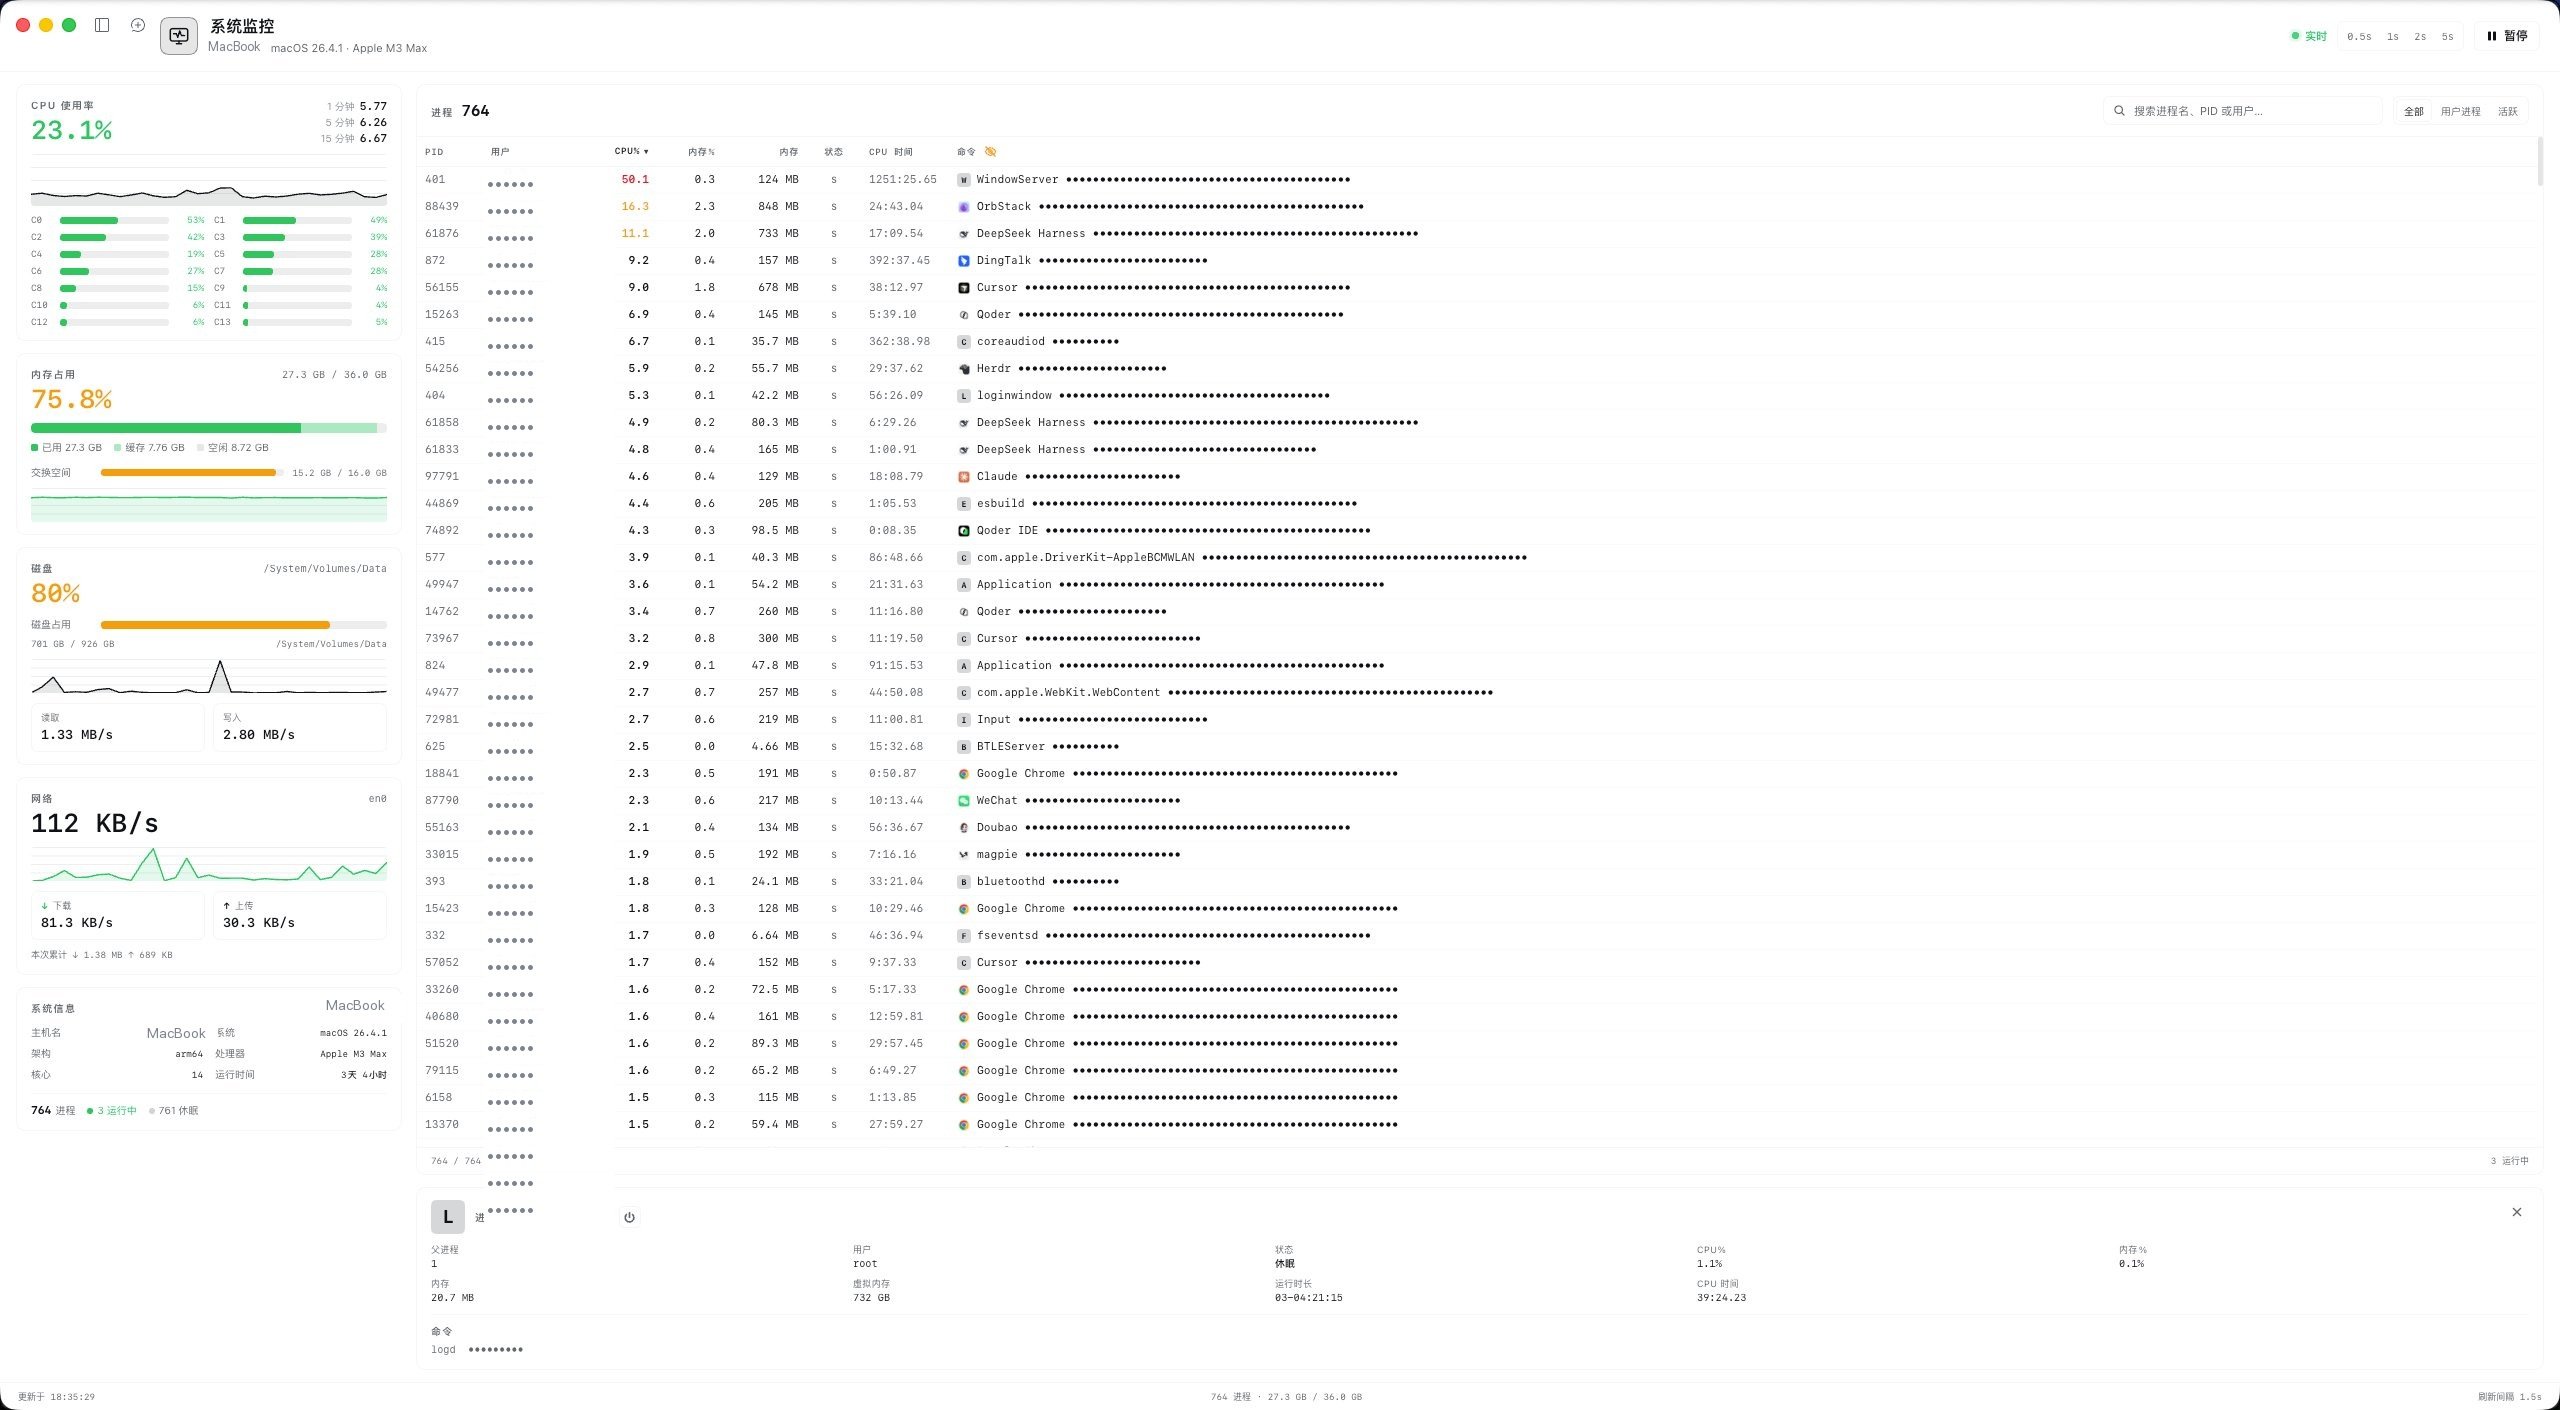
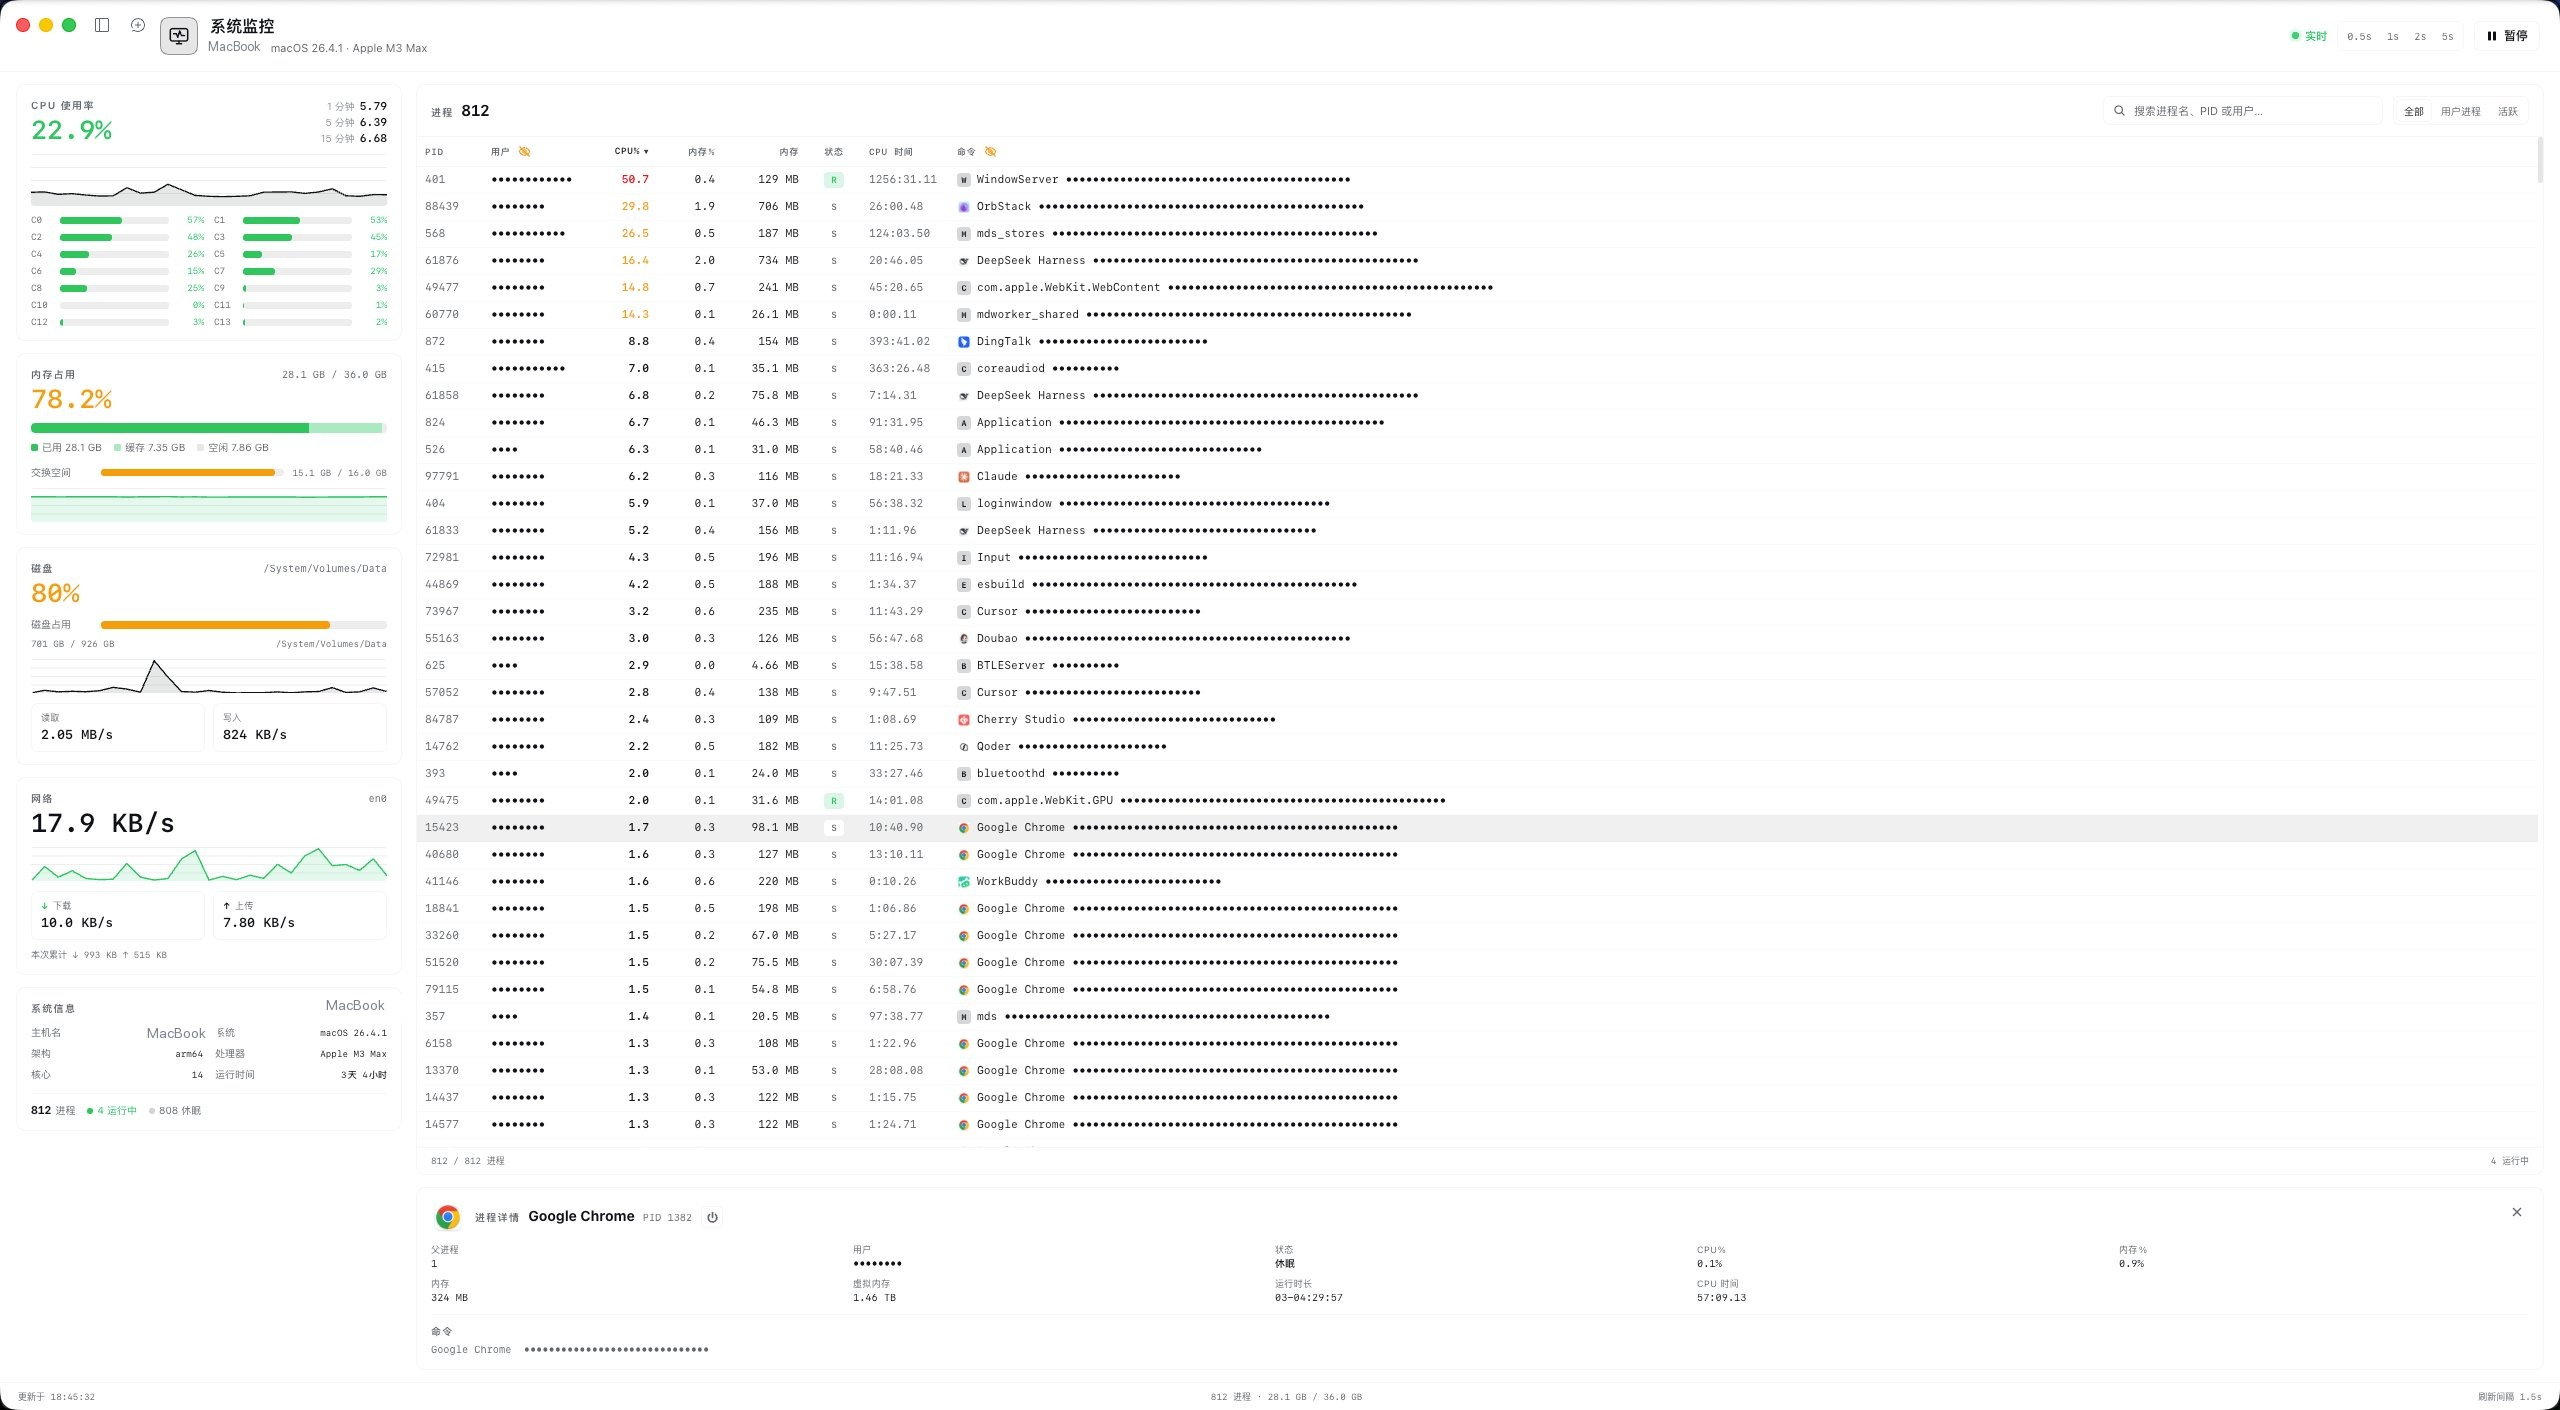
docs: replace README preview image

diff --git a/README.md b/README.md
@@ -6,8 +6,6 @@ DeepSeek Harness 的「系统监控」插件：一个 btop 风格的本机资源
 
 ![系统监控预览](https://raw.githubusercontent.com/m430/dsh-sys-monitor/main/preview.jpg)
 
-*界面预览（浅色主题）*
-
 ## 功能
 
 - **CPU**：总体使用率、每核心占用条、90 点历史曲线、1/5/15 分钟负载。
